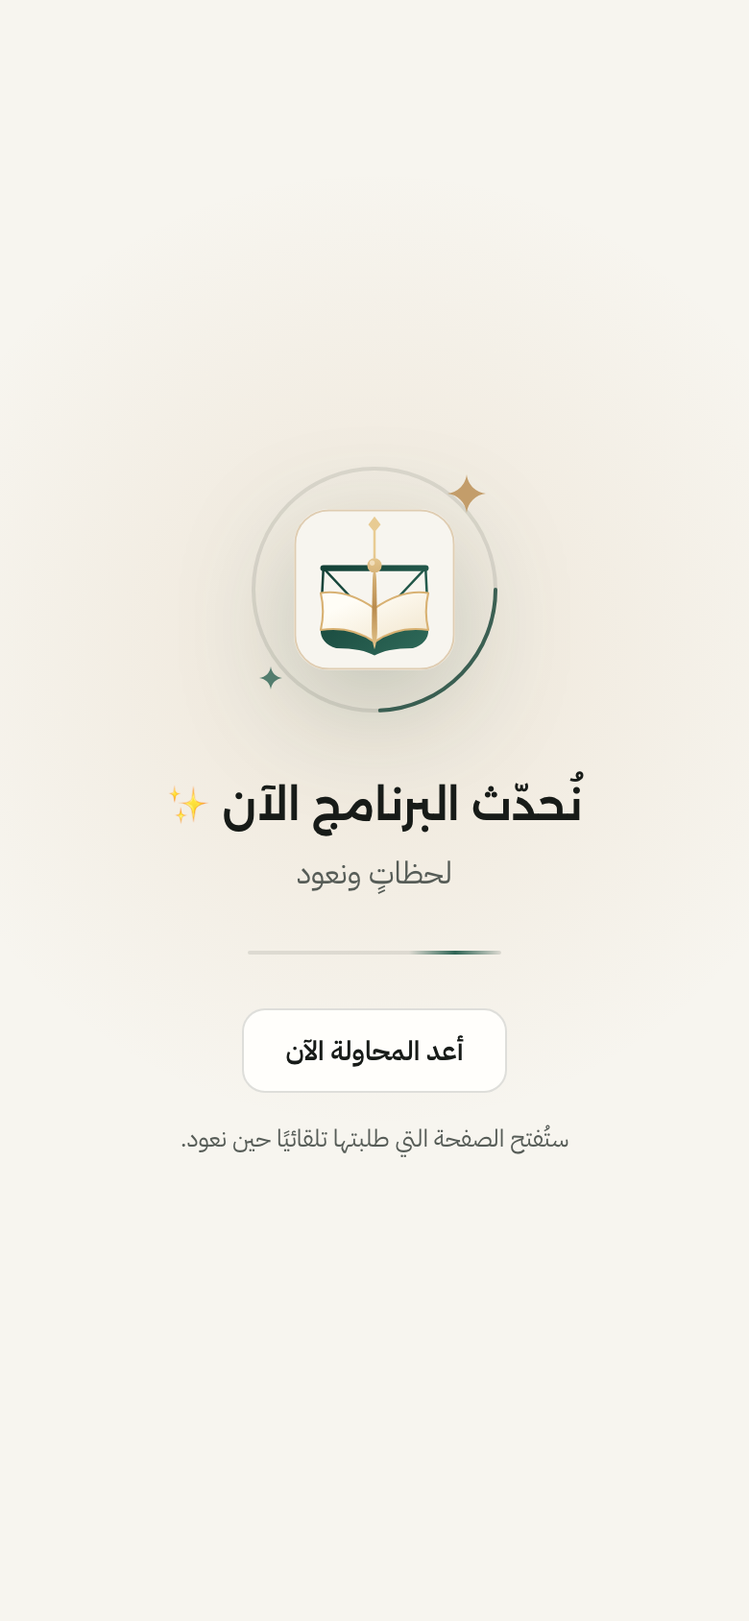
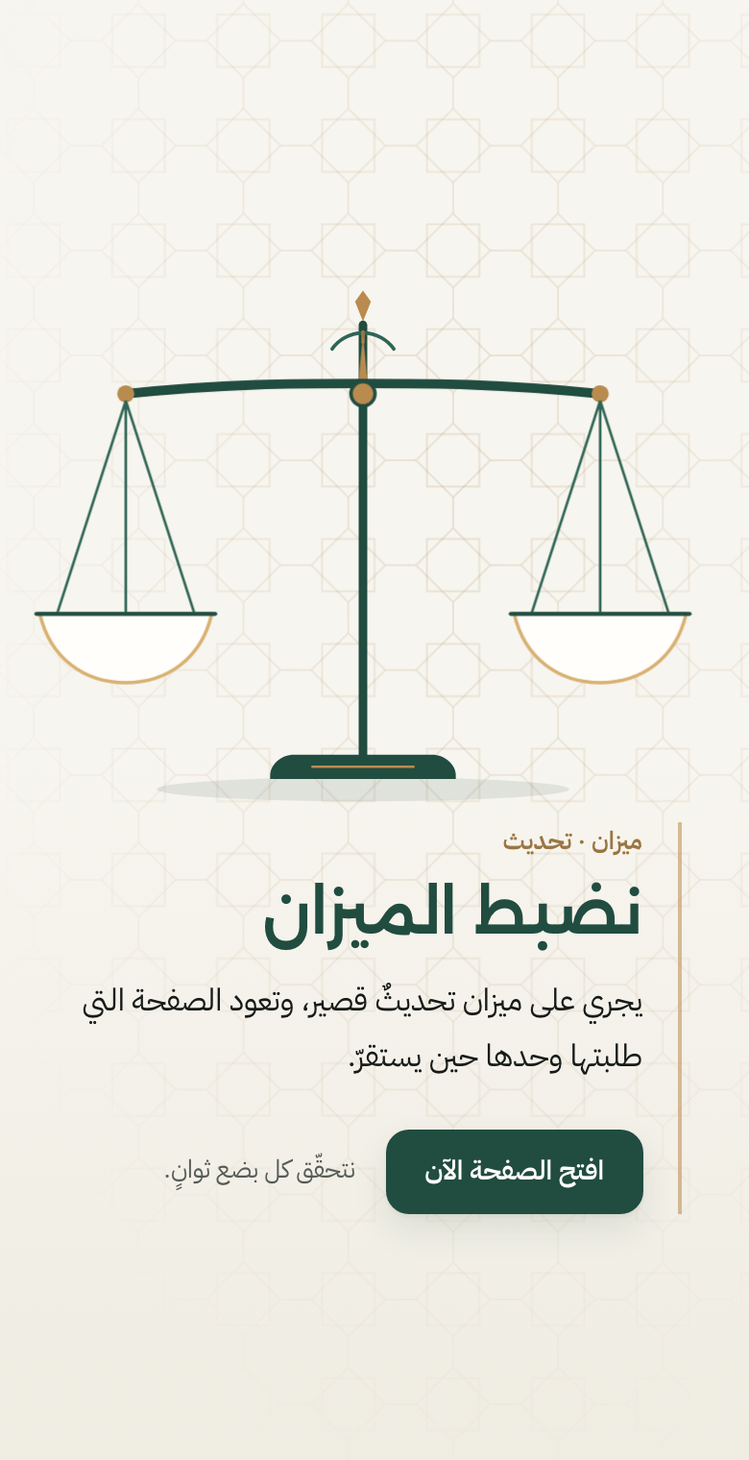
صفحة التحديث بهويّة ميزان: ميزانٌ يستقرّ فوق نقشٍ هندسي
- صفحة «نضبط الميزان»: كفّتان كبيرتان يميل عاتقهما ثم يستوي، فوق نقش نجومٍ ثمانية خافت،
  والكلام تحتها منزاحٌ إلى اليمين بحدٍّ ذهبي، بالزمرّدي والذهبي، نهاري وليلي.
- صياغة جديدة لكل الحالات (العادية، والانقطاع، والتأخّر) بصوت ميزان.
- شريط التطبيق: شريطٌ ممتدّ على الحافة السفلى على هيئة شريط البيئة التجريبية، بجملةٍ بالصوت نفسه.
- المنطق والسياسة الأضيق (CSP ببصمة السكربت) كما هما؛ والاختبارات حُدّثت في النصوص وحدها.
- لقطتا 390 نهاري وليلي في docs/updating-page.

diff --git a/public/updating.html b/public/updating.html
@@ -1,11 +1,14 @@
 <!doctype html>
 <!--
-  صفحة «نُحدّث البرنامج».
+  صفحة «نضبط الميزان»: ما يراه الزائر أثناء نشر إصدارٍ جديد.
 
   أثناء النشر يتبدّل الخادم، فتجيب واجهةُ Google الأماميّة عن التنقّل بصفحة خطأٍ
   إنجليزية لا يكتبها خادمُ ميزان أصلًا. عاملُ الخدمة (public/sw.js) يحفظ هذه الصفحة
   عند تثبيته، ويقدّمها بدلًا من أيّ جوابٍ 500/502/503/504 أو انقطاعٍ للتنقّل —
   والرابطُ في شريط العنوان يبقى ما طلبه الزائر، فإعادةُ التحميل تفتحه هو نفسه.
+
+  الرسم: كفّتا ميزانٍ كبيرتان يميل عاتقُهما قليلًا ثم يستقرّ مستويًا، فوق نقشٍ هندسيّ
+  خافت من نجومٍ ثمانية (خاتم سليمان). كلّه SVG مضمَّن، بلا صورٍ ولا طلباتٍ خارجية.
 
   مستقلّةٌ تمامًا: لا طلبَ خارجيًا، والخطُّ خطُّ ميزان إن كان محفوظًا وإلا خطُّ النظام.
   تسأل /api/health كل ثلاث ثوانٍ (وتتباطأ تدريجيًا)، فإذا أجاب أعادت فتح الصفحة
@@ -23,109 +26,174 @@
 <meta name="color-scheme" content="light dark">
 <meta name="theme-color" content="#f7f5ef" media="(prefers-color-scheme: light)">
 <meta name="theme-color" content="#101a16" media="(prefers-color-scheme: dark)">
-<title>نُحدّث البرنامج · ميزان</title>
+<title>نضبط الميزان · ميزان</title>
 <style>
 @font-face{font-family:"Mizan Plex";font-weight:400;font-display:swap;src:local("IBM Plex Sans Arabic"),url("/fonts/284d2adce0.woff2") format("woff2")}
 @font-face{font-family:"Mizan Plex";font-weight:600;font-display:swap;src:local("IBM Plex Sans Arabic SemiBold"),url("/fonts/bdba2ef564.woff2") format("woff2")}
 @font-face{font-family:"Mizan Display";font-weight:600;font-display:swap;src:local("Alexandria SemiBold"),url("/fonts/313baf6f04.woff2") format("woff2")}
 :root{
-  --bg:#f7f5ef;--ink:#171b18;--muted:#565c57;--line:rgb(23 27 24 / .10);
-  --accent:#214c40;--glow:rgba(185,139,78,.14);--scan:#2f6555;--gold:#b98b4e;--leaf:#2f6555;
-  --button:#fffefb;--button-line:rgb(23 27 24 / .14);--shadow:rgba(18,63,53,.22);--tile-line:rgba(185,139,78,.38);
+  --bg:#f7f5ef;--bg-2:#efece2;--ink:#171b18;--muted:#565c57;
+  --emerald:#214c40;--emerald-2:#2f6555;--gold:#b98b4e;--gold-2:#9b7542;
+  --frame:#214c40;--frame-soft:#2f6555;--pan:#fffefb;--pan-line:#d8b172;
+  --star:rgb(155 117 66 / .14);--rule:rgb(185 139 78 / .55);
+  --btn:#214c40;--btn-ink:#fffefb;--btn-hover:#1a3d33;--focus:#9b7542;
+  --shade:rgb(18 63 53 / .10);
   color-scheme:light;
 }
 @media (prefers-color-scheme:dark){
   :root{
-    --bg:#101a16;--ink:#f4f1e8;--muted:#a9b6ae;--line:rgb(255 255 255 / .10);
-    --accent:#d8b172;--glow:rgba(216,177,114,.16);--scan:#e8cb93;--gold:#e8cb93;--leaf:#8fbfae;
-    --button:#16241f;--button-line:rgb(255 255 255 / .14);--shadow:rgba(0,0,0,.6);--tile-line:rgba(232,203,147,.30);
+    --bg:#101a16;--bg-2:#16241f;--ink:#f4f1e8;--muted:#a9b6ae;
+    --emerald:#8fbfae;--emerald-2:#8fbfae;--gold:#e8cb93;--gold-2:#d8b172;
+    --frame:#d8b172;--frame-soft:#8fbfae;--pan:#16241f;--pan-line:#e8cb93;
+    --star:rgb(232 203 147 / .10);--rule:rgb(232 203 147 / .45);
+    --btn:#e8cb93;--btn-ink:#101a16;--btn-hover:#f1dbb0;--focus:#e8cb93;
+    --shade:rgb(0 0 0 / .35);
     color-scheme:dark;
   }
 }
 *{box-sizing:border-box}
 html,body{height:100%}
 body{
-  margin:0;min-height:100%;display:grid;place-items:center;
-  padding:max(24px,env(safe-area-inset-top)) 16px max(24px,env(safe-area-inset-bottom));
-  background:radial-gradient(circle at 50% 40%,var(--glow),transparent 46%),var(--bg);
+  margin:0;min-height:100%;overflow-x:hidden;
+  background:linear-gradient(180deg,var(--bg) 0%,var(--bg) 52%,var(--bg-2) 100%);
   color:var(--ink);
   font-family:"Mizan Plex",-apple-system,BlinkMacSystemFont,"Segoe UI","Noto Sans Arabic",Tahoma,sans-serif;
-  font-synthesis:none;-webkit-font-smoothing:antialiased;text-align:center;
+  font-synthesis:none;-webkit-font-smoothing:antialiased;
 }
-main{display:grid;justify-items:center;gap:0;max-width:420px;width:100%}
-.stage{position:relative;width:132px;height:132px;display:grid;place-items:center;margin-bottom:30px}
-.halo{position:absolute;inset:0;width:100%;height:100%;animation:turn 3.6s linear infinite}
-.halo circle{fill:none;stroke-width:2;stroke-linecap:round}
-.halo .track{stroke:var(--line)}
-.halo .arc{stroke:var(--accent);stroke-dasharray:96 400;opacity:.85}
-.mark{width:84px;height:84px;display:block;filter:drop-shadow(0 18px 30px var(--shadow))}
-.mark .tile-line{stroke:var(--tile-line)}
-.mark .needle{transform-box:view-box;transform-origin:60px 42px;animation:weigh 2.4s cubic-bezier(.45,0,.25,1) infinite}
-.mark .finial{animation:settle 2.4s cubic-bezier(.16,1,.3,1) infinite}
-.spark{position:absolute;fill:var(--gold);animation:twinkle 2.4s ease-in-out infinite}
-.spark.one{width:20px;height:20px;top:6px;inset-inline-start:8px}
-.spark.two{width:12px;height:12px;bottom:14px;inset-inline-end:6px;fill:var(--leaf);animation-delay:1.2s}
-h1{margin:0;font-family:"Mizan Display","Mizan Plex",-apple-system,BlinkMacSystemFont,"Segoe UI","Noto Sans Arabic",Tahoma,sans-serif;font-size:clamp(22px,5.6vw,27px);font-weight:600;line-height:1.5;letter-spacing:0}
-.lead{margin:6px 0 0;font-size:16px;line-height:1.7;color:var(--muted)}
-.pulse{width:132px;height:2px;margin:26px 0 28px;border-radius:99px;background:var(--line);overflow:hidden}
-.pulse i{display:block;width:36%;height:100%;border-radius:inherit;background:linear-gradient(90deg,transparent,var(--scan),transparent);animation:scan 1.5s ease-in-out infinite}
+.ground{position:fixed;inset:0;width:100%;height:100%;pointer-events:none}
+.ground .star{fill:none;stroke:var(--star);stroke-width:1}
+main{
+  position:relative;min-height:100%;
+  display:grid;align-content:center;
+  width:min(100%,640px);margin:0 auto;
+  padding:max(28px,env(safe-area-inset-top)) 16px max(28px,env(safe-area-inset-bottom));
+}
+/* الميزانُ إلى طرف السطر الأيسر، والكلامُ تحته منزاحٌ إلى اليمين: لا تراصّ في المنتصف. */
+.scale{display:block;justify-self:end;width:min(100%,430px);height:auto;margin-inline-end:-6px;overflow:visible}
+.scale .post,.scale .beam-bar{stroke:var(--frame)}
+.scale .post{stroke-width:5;stroke-linecap:round}
+.scale .foot{fill:var(--frame)}
+.scale .foot-line{fill:none;stroke:var(--gold);stroke-width:1.4}
+.scale .beam-bar{stroke-width:5.5;stroke-linecap:round;fill:none}
+.scale .knob{fill:var(--gold)}
+.scale .pivot{fill:var(--gold);stroke:var(--frame);stroke-width:2}
+.scale .tongue{fill:var(--gold)}
+.scale .gauge{fill:none;stroke:var(--frame-soft);stroke-width:2;stroke-linecap:round}
+.scale .gauge-mark{stroke:var(--gold-2);stroke-width:2;stroke-linecap:round}
+.scale .chain{stroke:var(--frame-soft);stroke-width:1.5;fill:none}
+.scale .pan{fill:var(--pan);stroke:var(--pan-line);stroke-width:2;stroke-linejoin:round}
+.scale .pan-rim{fill:none;stroke:var(--frame);stroke-width:2.4;stroke-linecap:round}
+.scale .finial{fill:var(--gold)}
+.scale .shadow{fill:var(--shade)}
+.scale .beam,.scale .hang{transform-box:view-box}
+.scale .beam{transform-origin:200px 86px;animation:weigh 9s cubic-bezier(.45,.05,.3,1) infinite}
+.scale .hang.r{transform-origin:62px 86px;animation:hang 9s cubic-bezier(.45,.05,.3,1) infinite}
+.scale .hang.l{transform-origin:338px 86px;animation:hang 9s cubic-bezier(.45,.05,.3,1) infinite}
+@keyframes weigh{
+  0%{transform:rotate(0)}
+  12%{transform:rotate(-6.5deg)}
+  25%{transform:rotate(3.6deg)}
+  37%{transform:rotate(-1.8deg)}
+  47%{transform:rotate(.8deg)}
+  55%{transform:rotate(-.3deg)}
+  62%,100%{transform:rotate(0)}
+}
+@keyframes hang{
+  0%{transform:rotate(0)}
+  12%{transform:rotate(6.5deg)}
+  25%{transform:rotate(-3.6deg)}
+  37%{transform:rotate(1.8deg)}
+  47%{transform:rotate(-.8deg)}
+  55%{transform:rotate(.3deg)}
+  62%,100%{transform:rotate(0)}
+}
+.words{
+  justify-self:start;max-width:23rem;
+  margin:4px 0 0;margin-inline-start:clamp(4px,5vw,44px);
+  padding-inline-start:18px;border-inline-start:2px solid var(--rule);
+}
+.kicker{margin:0 0 6px;font-size:13px;font-weight:600;line-height:1.6;color:var(--gold-2)}
+h1{margin:0;font-family:"Mizan Display","Mizan Plex",-apple-system,BlinkMacSystemFont,"Segoe UI","Noto Sans Arabic",Tahoma,sans-serif;font-size:clamp(28px,8vw,40px);font-weight:600;line-height:1.35;letter-spacing:0;color:var(--emerald)}
+.lead{margin:10px 0 0;font-size:16px;line-height:1.85;color:var(--ink)}
+.act{display:flex;flex-wrap:wrap;align-items:center;gap:10px 16px;margin-top:22px}
 button{
-  min-height:44px;padding:0 22px;border-radius:12px;cursor:pointer;
-  border:1px solid var(--button-line);background:var(--button);color:var(--ink);
+  min-height:44px;padding:0 20px;border-radius:12px;cursor:pointer;
+  border:0;background:var(--btn);color:var(--btn-ink);
   font:inherit;font-size:14px;font-weight:600;
-  transition:border-color .2s ease,transform .2s ease;
+  box-shadow:0 1px 2px rgb(23 27 24 / .06),0 8px 18px var(--shade);
+  transition:background-color .2s ease,transform .2s ease;
 }
-button:hover{border-color:var(--accent)}
+button:hover{background:var(--btn-hover)}
 button:active{transform:scale(.98)}
-button:focus-visible{outline:2px solid var(--accent);outline-offset:3px}
-.note{min-height:20px;margin:14px 0 0;font-size:12.5px;line-height:1.6;color:var(--muted)}
-@keyframes turn{to{transform:rotate(360deg)}}
-@keyframes weigh{0%,100%{transform:rotate(0)}30%{transform:rotate(3.2deg)}65%{transform:rotate(-2deg)}}
-@keyframes settle{0%{transform:translateY(-3px);opacity:.6}45%,100%{transform:none;opacity:1}}
-@keyframes twinkle{0%,100%{opacity:.25;transform:scale(.7) rotate(0)}50%{opacity:1;transform:scale(1) rotate(20deg)}}
-@keyframes scan{0%{transform:translateX(130%)}100%{transform:translateX(-360%)}}
+button:focus-visible{outline:2px solid var(--focus);outline-offset:3px}
+.note{margin:0;font-size:13px;line-height:1.6;color:var(--muted)}
+@media (min-width:720px){
+  .words{margin-top:-18px}
+}
 @media (prefers-reduced-motion:reduce){
-  .halo,.mark .needle,.mark .finial,.spark,.pulse i{animation:none}
-  .spark{opacity:.8}
+  .scale .beam,.scale .hang.r,.scale .hang.l{animation:none}
 }
 </style>
 </head>
 <body>
-<main>
-  <div class="stage" aria-hidden="true">
-    <svg class="halo" viewBox="0 0 132 132" focusable="false"><circle class="track" cx="66" cy="66" r="63"/><circle class="arc" cx="66" cy="66" r="63"/></svg>
-    <!-- علامة ميزان كما في public/brand/mizan-mark.svg، والإبرة وحدها تتحرّك. -->
-    <svg class="mark" viewBox="0 0 120 120" focusable="false">
-      <defs>
-        <linearGradient id="mz-a" x1="26" y1="30" x2="94" y2="96" gradientUnits="userSpaceOnUse"><stop stop-color="#123F35"/><stop offset="1" stop-color="#2C6656"/></linearGradient>
-        <linearGradient id="mz-g" x1="60" y1="30" x2="60" y2="104" gradientUnits="userSpaceOnUse"><stop stop-color="#E8CB93"/><stop offset=".55" stop-color="#B98B4E"/><stop offset="1" stop-color="#E8CB93"/></linearGradient>
-        <linearGradient id="mz-p" x1="60" y1="58" x2="78" y2="98" gradientUnits="userSpaceOnUse"><stop stop-color="#FFFDF6"/><stop offset="1" stop-color="#F3E8D2"/></linearGradient>
-      </defs>
-      <rect width="120" height="120" rx="26" fill="#F7F5EF"/>
-      <rect class="tile-line" x="1" y="1" width="118" height="118" rx="25" fill="none" stroke-width="1.4"/>
-      <g transform="translate(0 3)">
-        <path class="finial" d="M60 2.5 64.6 8.6 60.9 13.2V34h-1.8V13.2L55.4 8.6Z" fill="url(#mz-g)"/>
-        <path d="M22 41H98" fill="none" stroke="url(#mz-a)" stroke-width="4.6" stroke-linecap="round"/>
-        <path d="M22 41 21 60.5M22 41 44 64.5M98 41 99 60.5M98 41 76 64.5" fill="none" stroke="url(#mz-a)" stroke-width="1.8" stroke-linecap="round"/>
-        <path d="M60 96c-12-8.5-26.5-11-40-9-.5 6 4 11.5 11.5 13.5 13.5 0 22.5 2 28.5 5.5Z" fill="url(#mz-a)"/>
-        <path d="M60 96c12-8.5 26.5-11 40-9 .5 6-4 11.5-11.5 13.5-13.5 0-22.5 2-28.5 5.5Z" fill="url(#mz-a)"/>
-        <path d="M60 71c-13.5-9.5-27-13.5-40-11.5 2 8.5 2 19 0 27.5 13.5-2 28 .5 40 9Z" fill="url(#mz-p)" stroke="#D8B172" stroke-width="1.5" stroke-linejoin="round"/>
-        <path d="M60 71c13.5-9.5 27-13.5 40-11.5-2 8.5-2 19 0 27.5-13.5-2-28 .5-40 9Z" fill="url(#mz-p)" stroke="#D8B172" stroke-width="1.5" stroke-linejoin="round"/>
-        <g class="needle">
-          <path d="M60 43c.85 0 1.35 2.2 1.5 9.4l.55 33.6c.08 6.2-.7 11.4-2.05 15.5-1.35-4.1-2.13-9.3-2.05-15.5l.55-33.6c.15-7.2.65-9.4 1.5-9.4Z" fill="url(#mz-g)"/>
-          <circle cx="60" cy="39" r="5.4" fill="url(#mz-g)"/>
-          <circle cx="58.3" cy="37.2" r="1.9" fill="#FFF6E4" opacity=".55"/>
-        </g>
+<!-- نقشٌ هندسيّ خافت: نجمةٌ ثمانية من مربّعين متراكبين، تخفت نحو الأطراف. -->
+<svg class="ground" aria-hidden="true" focusable="false" preserveAspectRatio="xMidYMid slice" viewBox="0 0 400 800">
+  <defs>
+    <pattern id="khatam" width="56" height="56" patternUnits="userSpaceOnUse" patternTransform="translate(-10 4)">
+      <g class="star">
+        <rect x="14" y="14" width="28" height="28"/>
+        <rect x="14" y="14" width="28" height="28" transform="rotate(45 28 28)"/>
+        <path d="M0 28H8M48 28H56M28 0V8M28 48V56"/>
       </g>
-    </svg>
-    <svg class="spark one" viewBox="0 0 24 24" focusable="false"><path d="M12 0c.7 6.4 5.6 11.3 12 12-6.4.7-11.3 5.6-12 12-.7-6.4-5.6-11.3-12-12C6.4 11.3 11.3 6.4 12 0z"/></svg>
-    <svg class="spark two" viewBox="0 0 24 24" focusable="false"><path d="M12 0c.7 6.4 5.6 11.3 12 12-6.4.7-11.3 5.6-12 12-.7-6.4-5.6-11.3-12-12C6.4 11.3 11.3 6.4 12 0z"/></svg>
-  </div>
-  <h1 id="title">نُحدّث البرنامج الآن ✨</h1>
-  <p class="lead" id="lead">لحظاتٍ ونعود</p>
-  <div class="pulse" aria-hidden="true"><i></i></div>
-  <button type="button" id="retry">أعد المحاولة الآن</button>
-  <p class="note" id="note" role="status" aria-live="polite">ستُفتح الصفحة التي طلبتها تلقائيًا حين نعود.</p>
+    </pattern>
+    <radialGradient id="fade" cx="62%" cy="34%" r="70%">
+      <stop offset="0" stop-color="#fff" stop-opacity="1"/>
+      <stop offset=".55" stop-color="#fff" stop-opacity=".55"/>
+      <stop offset="1" stop-color="#fff" stop-opacity="0"/>
+    </radialGradient>
+    <mask id="fade-mask"><rect width="400" height="800" fill="url(#fade)"/></mask>
+  </defs>
+  <rect width="400" height="800" fill="url(#khatam)" mask="url(#fade-mask)"/>
+</svg>
+<main>
+  <!-- الميزان: العاتقُ يدور حول محوره، وكلُّ كفّةٍ تدور عكسه حول معلاقها فتبقى معلّقةً قائمة. -->
+  <svg class="scale" viewBox="0 0 400 330" aria-hidden="true" focusable="false">
+    <ellipse class="shadow" cx="200" cy="316" rx="120" ry="7"/>
+    <path class="finial" d="M200 26l4.6 6.4L200 44l-4.6-11.6Z"/>
+    <path class="post" d="M200 46V296"/>
+    <path class="foot" d="M160 296h80c8 0 14 6 14 12v2H146v-2c0-6 6-12 14-12Z"/>
+    <path class="foot-line" d="M170 303h60"/>
+    <g class="gauge-wrap">
+      <path class="gauge" d="M182 60a22 22 0 0 1 36 0"/>
+      <path class="gauge-mark" d="M200 50v6"/>
+    </g>
+    <g class="beam">
+      <path class="tongue" d="M200 52l3 30h-6Z"/>
+      <path class="beam-bar" d="M62 86C120 80 160 80 200 80S280 80 338 86"/>
+      <circle class="knob" cx="62" cy="86" r="5"/>
+      <circle class="knob" cx="338" cy="86" r="5"/>
+      <g class="hang r">
+        <path class="chain" d="M62 90 22 214M62 90 62 214M62 90 102 214"/>
+        <path class="pan" d="M12 214h100c-6 26-26 40-50 40s-44-14-50-40Z"/>
+        <path class="pan-rim" d="M10 214h104"/>
+      </g>
+      <g class="hang l">
+        <path class="chain" d="M338 90 298 214M338 90 338 214M338 90 378 214"/>
+        <path class="pan" d="M288 214h100c-6 26-26 40-50 40s-44-14-50-40Z"/>
+        <path class="pan-rim" d="M286 214h104"/>
+      </g>
+      <circle class="pivot" cx="200" cy="86" r="7"/>
+    </g>
+  </svg>
+  <section class="words">
+    <p class="kicker">ميزان · تحديث</p>
+    <h1 id="title">نضبط الميزان</h1>
+    <p class="lead" id="lead">يجري على ميزان تحديثٌ قصير، وتعود الصفحة التي طلبتها وحدها حين يستقرّ.</p>
+    <div class="act">
+      <button type="button" id="retry">افتح الصفحة الآن</button>
+      <p class="note" id="note" role="status" aria-live="polite">نتحقّق كل بضع ثوانٍ.</p>
+    </div>
+  </section>
 </main>
 <script>
 (function () {
@@ -159,17 +227,17 @@ button:focus-visible{outline:2px solid var(--accent);outline-offset:3px}
 
   function describe() {
     if (navigator.onLine === false) {
-      title.textContent = "لا اتصال بالإنترنت الآن";
-      lead.textContent = "سنعود تلقائيًا حين يعود الاتصال";
+      title.textContent = "الجهاز غير متّصل بالشبكة";
+      lead.textContent = "متى رجع الاتصال رجعت الصفحة التي طلبتها، دون أن تفعل شيئًا.";
       note.textContent = "";
     } else if (stuck()) {
-      title.textContent = "نُحدّث البرنامج الآن ✨";
-      lead.textContent = "يستغرق ذلك وقتًا أطول من المعتاد";
-      note.textContent = "سنحاول مرّةً كل نصف دقيقة، ويمكنك المحاولة الآن.";
+      title.textContent = "نضبط الميزان";
+      lead.textContent = "يأخذ الضبط هذه المرّة وقتًا أطول من المعتاد، والصفحة تعود وحدها حين يستقرّ.";
+      note.textContent = "نتحقّق مرّةً كل نصف دقيقة.";
     } else {
-      title.textContent = "نُحدّث البرنامج الآن ✨";
-      lead.textContent = "لحظاتٍ ونعود";
-      note.textContent = "ستُفتح الصفحة التي طلبتها تلقائيًا حين نعود.";
+      title.textContent = "نضبط الميزان";
+      lead.textContent = "يجري على ميزان تحديثٌ قصير، وتعود الصفحة التي طلبتها وحدها حين يستقرّ.";
+      note.textContent = "نتحقّق كل بضع ثوانٍ.";
     }
   }
 

diff --git a/tests/updating-page.test.ts b/tests/updating-page.test.ts
@@ -1,7 +1,7 @@
 /*
  * «نُحدّث البرنامج» بدل صفحة Google الإنجليزية أثناء النشر.
  *
- *   U1) sw.js: تنقّلٌ يعود 500/502/503/504 ← صفحةُ التحديث (503، no-store)؛ والنجاحُ والتحويلُ يمرّان.
+ *   U1) sw.js: تنقّلٌ يعود 500/502/503/504 ← صفحةُ «نضبط الميزان» (503، no-store)؛ والنجاحُ والتحويلُ يمرّان.
  *   U2) لا يمسّ /api (طلبًا ولا تنقّلًا) ولا غيرَ GET، ولا يحفظ جوابَ 5xx، ولا يحفظ صفحةَ التحديث غلافًا؛
  *       والانقطاعُ يفتح الغلافَ المحفوظ كما كان (القاعة تعمل دون اتصال)، وصفحةُ التحديث له حين لا غلاف.
  *   U3) التثبيتُ يحفظها في ذاكرة الإصدار؛ والتنقّلُ الناجح يعيد حفظها؛ وختمُ البناء باقٍ.
@@ -85,7 +85,7 @@ const deploying = (status: number | 'drop'): Net => async pathname => {
 };
 const isUpdatingPage = async (response: Response | null | undefined) =>
   Boolean(response) && response!.status === 503 && response!.headers.get('cache-control') === 'no-store'
-  && /text\/html/.test(response!.headers.get('content-type') || '') && (await response!.clone().text()).includes('نُحدّث البرنامج الآن');
+  && /text\/html/.test(response!.headers.get('content-type') || '') && (await response!.clone().text()).includes('<h1 id="title">نضبط الميزان</h1>');
 
 test('U1 a 5xx navigation gets the updating page; success and redirects pass through', async () => {
   for (const status of [500, 502, 503, 504]) {
@@ -182,8 +182,10 @@ test('U4 the page is standalone, RTL, light/dark, polls /api/health with backoff
   assert.match(PAGE, /<html lang="ar" dir="rtl">/);
   assert.match(PAGE, /prefers-color-scheme:dark/);
   assert.match(PAGE, /prefers-reduced-motion/);
-  assert.match(PAGE, /<title>نُحدّث البرنامج · ميزان<\/title>/);
-  for (const text of ['نُحدّث البرنامج الآن ✨', 'لحظاتٍ ونعود', 'أعد المحاولة الآن']) assert.ok(PAGE.includes(text), text);
+  assert.match(PAGE, /<title>نضبط الميزان · ميزان<\/title>/);
+  for (const text of ['نضبط الميزان', 'تعود الصفحة التي طلبتها وحدها', 'افتح الصفحة الآن']) assert.ok(PAGE.includes(text), text);
+  assert.match(PAGE, /id="note" role="status" aria-live="polite"/);
+  assert.doesNotMatch(PAGE, /✨/);
 
   const script = inlineScriptOf(PAGE) || '';
   const run = (options: { health: boolean[]; recent?: number[]; pathname?: string; online?: boolean }) => {
@@ -236,7 +238,7 @@ test('U4 the page is standalone, RTL, light/dark, polls /api/health with backoff
     const page = run({ health: [true], online: false });
     await page.step();
     assert.equal(page.asked.length, 0);
-    assert.match(page.nodes.title.textContent, /لا اتصال/);
+    assert.match(page.nodes.title.textContent, /غير متّصل/);
   }
 });
 
@@ -258,7 +260,7 @@ test('U6 the app shows one calm bar for a platform 5xx and hands the response ba
   assert.equal(isPlatformUpdating(503, 'application/json; charset=utf-8'), false, 'our own JSON errors stay ours');
   assert.equal(isPlatformUpdating(502, ''), false, 'a bodiless 502 from a binary route stays ours');
   assert.equal(isPlatformUpdating(404, 'text/html'), false);
-  assert.ok(UPDATING_MESSAGE.includes('نُحدّث البرنامج'));
+  assert.ok(UPDATING_MESSAGE.includes('نضبط الميزان'));
 
   const timers: Array<() => void> = [];
   const appended: any[] = [];

diff --git a/src/lib/updating-notice.ts b/src/lib/updating-notice.ts
@@ -1,11 +1,11 @@
 /*
- * «نُحدّث البرنامج» داخل التطبيق.
+ * «نضبط الميزان» داخل التطبيق.
  *
  * أثناء النشر تجيب واجهةُ Google الأمامية طلباتِ /api بصفحة HTML إنجليزية (500/502/503/504)
  * لا يكتبها خادمُ ميزان — خادمُنا يجيب /api بـJSON دائمًا، أو بجسمٍ فارغ لأصلٍ ثنائيّ. فكانت
  * الشاشات تقرأ صفحةَ الخطأ كأنها عطلٌ في البرنامج.
  *
- * هنا يُعرف ذلك الجواب، ويظهر شريطٌ هادئ واحد أسفل الشاشة، ويسأل /api/health كل ثلاث
+ * هنا يُعرف ذلك الجواب، ويظهر شريطٌ هادئ واحد ممتدّ على حافة الشاشة السفلى (على هيئة شريط البيئة التجريبية)، ويسأل /api/health كل ثلاث
  * ثوانٍ (ويتباطأ إلى خمس عشرة) حتى يعود الخادم فيختفي ويُطلَق حدثُ SERVER_BACK_EVENT.
  *
  * المراقبةُ لا تغيّر شيئًا: الجوابُ نفسه يعود إلى من طلبه كما جاء، فلا يتبدّل سلوكُ أيّ شاشة
@@ -14,8 +14,8 @@
 
 const UPDATING_STATUSES = new Set([500, 502, 503, 504]);
 
-export const UPDATING_MESSAGE = 'نُحدّث البرنامج الآن ✨ لحظاتٍ ونعود.';
-export const UPDATING_MESSAGE_EN = 'Updating MIZAN ✨ back in a moment.';
+export const UPDATING_MESSAGE = 'نضبط الميزان بتحديثٍ قصير، وتكمل من حيث توقّفت حين يستقرّ.';
+export const UPDATING_MESSAGE_EN = 'MIZAN is settling a short update; you will pick up where you left off.';
 /** يُطلق على window حين يعود الخادم. */
 export const SERVER_BACK_EVENT = 'mizan:server-back';
 export const HEALTH_URL = '/api/health';
@@ -47,10 +47,10 @@ export function showUpdatingNotice(probe: () => Promise<boolean>, onBack?: () =>
   bar.dir = ar ? 'rtl' : 'ltr';
   bar.textContent = ar ? UPDATING_MESSAGE : UPDATING_MESSAGE_EN;
   bar.style.cssText = [
-    'position:fixed', 'inset-inline:0', 'bottom:max(18px,env(safe-area-inset-bottom))', 'margin:0 auto', 'width:max-content', 'max-width:calc(100vw - 32px)',
-    'z-index:2147483000', 'padding:11px 18px', 'border-radius:14px', 'font-family:var(--font-arabic,inherit)', 'font-size:14px', 'font-weight:600', 'line-height:1.6',
-    'background:var(--surface,#fffefb)', 'color:var(--ink,#171b18)', 'border:1px solid var(--line,#dfded7)',
-    'box-shadow:0 14px 36px rgb(18 63 53 / .16)', 'text-align:center', 'pointer-events:none',
+    'position:fixed', 'inset-inline:0', 'bottom:0', 'z-index:2147483000',
+    'padding:12px 20px calc(12px + env(safe-area-inset-bottom))', 'font-family:var(--font-arabic,inherit)', 'font-size:14px', 'font-weight:600', 'line-height:1.6',
+    'background:var(--emerald,#214c40)', 'color:#fffefb', 'border-top:2px solid var(--gold,#b98b4e)',
+    'box-shadow:0 -10px 30px rgba(25,39,33,.12)', 'text-align:start', 'pointer-events:none',
   ].join(';');
   document.body.appendChild(bar);
   notice = bar;
